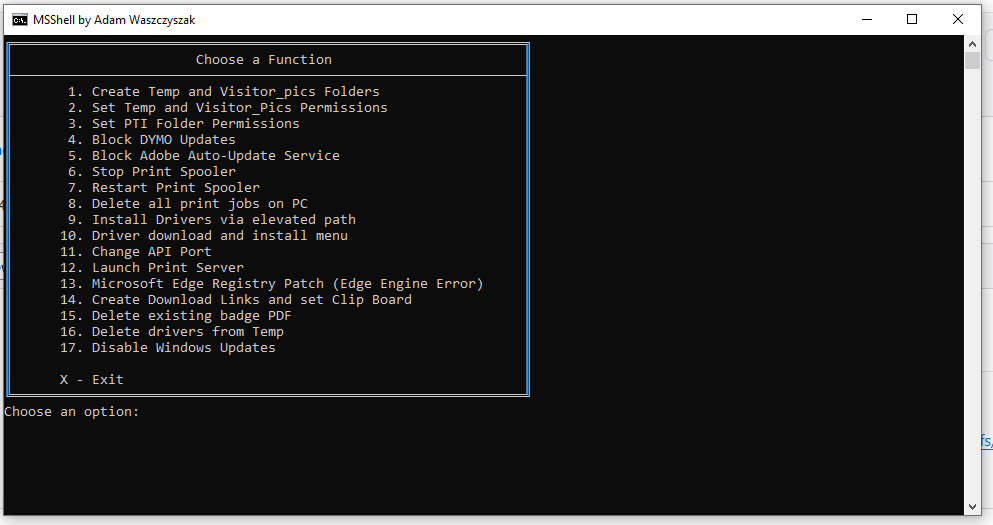
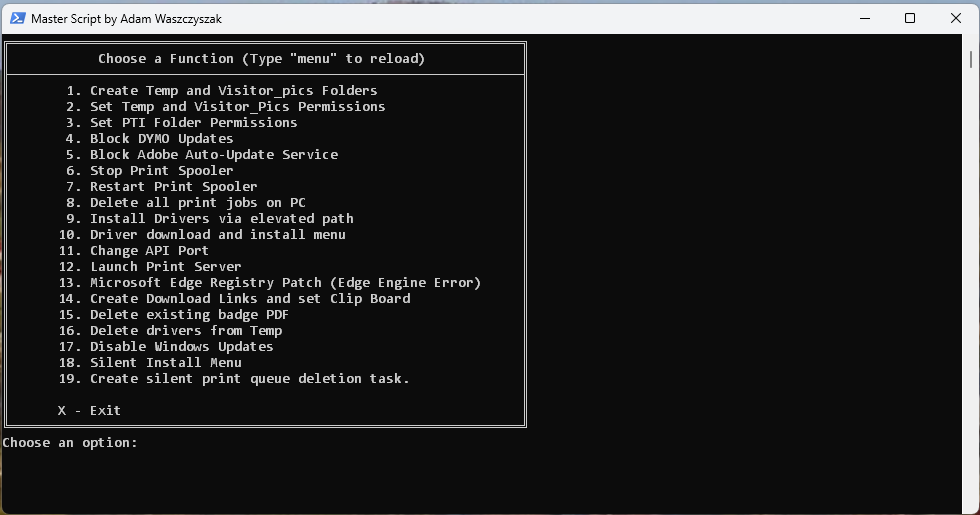
Add files via upload

Changed region(s): [[0.0, 0.0, 1.0, 1.0]]

diff --git a/projects.html b/projects.html
@@ -28,26 +28,55 @@
     <!-- Project Descriptions -->
     <main>
         <section class="project">
-            <img src="image.jpg" alt="Project 1!" class="center" width="250" height="auto">
-            <p>Windows Server 2022: This is a recycled HP Office computer, which I put x2 SSD's in, and x2 HDD's in. One of the HDD's is running as a mirrored backup drive.
-                This server used to be using the Linux-based OS, TrueNAS, however it kept having issues with the BOOT partition, so I switched over to Windows Server 2022.
-                It now runs a multitude for services for me. I use it to store backups of photos, phones and videos. I use JellyFIn to host and transcode video to my TV and devices. 
+            <img src="image.jpg" alt="Home Server Project" class="center" width="250" height="auto">
+            <p>
+                One of my most important projects has been setting up my home server / home lab. This setup has provided an excellent opportunity to practice and implement various crucial skills, particularly in system administration and service management.
+                The server is a repurposed HP Office computer, upgraded with additional storage and RAM. I configured one of the HDDs as a mirrored backup drive to ensure data redundancy. Originally, I ran TrueNAS (a Linux-based OS), but persistent issues with the BOOT partition led me to switch to Windows Server 2022, which has been much more stable and versatile for my needs.
+                This project has been a valuable hands-on experience, helping me to develop real-world IT skills in server management, automation, and service hosting.
+                The server now hosts several essential services:
+            </p>
+            <p>
+                <ul>
+                    <li><strong>Backups:</strong> of personal photos, videos, and phone data via SMB and a custom Python script for automatic iCloud backups.</li>
+                    <li><strong>Jellyfin:</strong> for media streaming and transcoding to my TV and devices.</li>
+                    <li><strong>FTP server:</strong> to access files from anywhere in the world.</li>
+                    <li><strong>TeamSpeak VOIP server:</strong> for communication with my eSports team.</li>
+                    <li><strong>Music management system:</strong> to stream audio to my household speaker system.</li>
+                </ul>
             </p>
         </section>
 
         <section class="project">
-            <img src="code.PNG" alt="Project 2!" class="center" width=70% height="auto">
-            <p>This website has been a project in and of itself, as I have had to learn HTML, CSS, and (hopefully soon) JavaScript! It is hosted on GitPages to protect my IP and not expose my
-                server to the public Internet. As it is a static site, all I needed to do was link my domain to my GitPages, and everything worked flawlessly. 
+            <img src="code.PNG" alt="Project 2!" class="center" width=50% height="auto">
+            <p>This website has been a big project, requiring me to learn and apply HTML, CSS, and, hopefully soon, JavaScript. It's hosted on GitHub Pages to avoid exposing my server to the public internet, and to have the code available for any interested parties to see. This project has emphasized the importance of writing clean, well-organized code, ensuring it's both understandable and maintainable for the future.
             </p>
         </section>
 
         <section class="project">
-            <img src="mergedScript.jpg" alt="Project Script Index" class="center" width=95% height="auto">
-            <p>This Powershell Script was created to automate many functions that I would need to perform at my IT Specialist Role. This was my first time working with Powershell to such a degree, and I had to self-teach myself a lot!
-                It has features such as downloading drivers and launching their installations. I was working on silent installations as well, but this project had to be scrapped due to pushback from leadership.
+            <img src="ScriptLanding.PNG" alt="Master Script Index" class="center" width=40% height="auto">
+            <p>
+                One of my projects was this Powershell Script that was developed to automate daily functions that I would need to perform at my IT Specialist Role. This was my first time working with Powershell to such a degree, and I had to self-teach myself a lot!
+                It has gone through many interations, and has taught me a lot about Powershell. I now have a nice library of Powershell scripts ranging from automatic kiosk creation scripts, to setting up office computers for new staff.
+                While I loved working with Powershell, it's limitations pushed me towards learning (or more aptly, re-learning) Python.
             </p>
         </section>
+
+        <section class="project">
+            <div class="image-container">
+                <img src="signaturescript.jpg" alt="Signature Scrips" class="center" width="20%" height="auto">
+                <img src="rosterinputscript.jpg" alt="Roster Input Script" class="center" width="25%" height="auto">
+                <img src="scraperscript.jpg" alt="Roster Input Script" class="center" width="40%" height="auto">
+            </div>
+            <p>
+                Python has been one of my favorite languages to use and learn so far. It is incredibly versatile, and the only limit for me has been thinking of problems to solve using it. 
+                Some of the things I have done with Python include automating employee roster inputs using CSV files and Selenium for controls. 
+                I also developed a script to generate HTML signatures for new employees, ensuring consistent email signatures throughout the company. 
+                Additionally, I created tools to scrape information from our proprietary ticketing system, which I have used to create other scripts that support the IT team. 
+                Adding a nice GUI was a challenge, but it was definitely worthwhile, as now others can use the scripts with ease
+            </p>
+        </section>
+        
+
     </main>
 
 </body>

diff --git a/projectStyle.css b/projectStyle.css
@@ -1,12 +1,10 @@
-/* General body styles */
 body {
-  background-color: black;
+  background-color: rgb(20, 20, 20);
   font-family: 'Arial', sans-serif;
   margin: 0;
   padding: 0;
 }
 
-/* Centered Heading */
 h1 {
   color: white;
   text-align: center;
@@ -14,7 +12,6 @@ h1 {
   font-size: 36px;
 }
 
-/* Common styles for paragraph text */
 p {
   color: white;
   font-size: 18px;
@@ -23,7 +20,6 @@ p {
   padding: 10px 20px;
 }
 
-/* Specific styling for .p1 class */
 .p1 {
   font-size: 24px;
   color: black;
@@ -31,14 +27,12 @@ p {
   margin-top: 10px;
 }
 
-/* Specific styling for .p2 class */
 .p2 {
   font-size: 24px;
   text-align: center;
   margin-top: 10px;
 }
 
-/* Specific styling for .p3 class */
 .p3 {
   font-size: 24px;
   display: block;
@@ -48,16 +42,15 @@ p {
   margin-top: 10px;
 }
 
-/* Top navigation bar */
 .topnav {
   background-color: #333;
   overflow: hidden;
   position: sticky;
   top: 0;
   z-index: 1000;
+  padding: 10px 0;
 }
 
-/* Style the links inside the navigation bar */
 .topnav a {
   float: left;
   color: #f2f2f2;
@@ -68,21 +61,17 @@ p {
   transition: background-color 0.3s, color 0.3s;
 }
 
-/* Hover effect on links */
 .topnav a:hover {
   background-color: #ddd;
   color: black;
 }
 
-/* Active link style */
 .topnav a.active {
   background-color: #008bff;
   color: white;
 }
 
-/* Responsive Design: Adjust the layout on smaller screens */
 @media (max-width: 768px) {
-  /* Stack the navigation links vertically */
   .topnav {
       display: flex;
       flex-direction: column;
@@ -95,7 +84,6 @@ p {
       padding: 12px;
   }
 
-  /* Adjust font size for smaller screens */
   h1 {
       font-size: 28px;
   }
@@ -109,17 +97,50 @@ p {
   }
 }
 
-img.merged-script {
-  width: 100%;  /* Image will take up 100% of the container's width */
-  height: auto; /* Keeps the aspect ratio */
-}
-.center {
+img.center {
   display: block;
   margin-left: auto;
   margin-right: auto;
+  max-width: 100%;
+  height: auto;
+  border-radius: 10px;
+  box-shadow: 0 4px 6px rgba(0, 0, 0, 0.2);
+  transition: transform 0.3s ease;
 }
 
-iframe{ 
-  display:block; 
-  margin:auto; 
+img.center:hover {
+  transform: scale(1.05);
+}
+
+iframe {
+  display: block;
+  margin: auto;
+}
+
+strong {
+  color: #f2f2f2;
+}
+
+li {
+  color: #f2f2f2;
+}
+
+ul {
+  color: #f2f2f2;
+}
+
+section {
+  padding: 20px 0;
+}
+
+.image-container {
+  display: flex;
+  justify-content: center; /* Aligns images in the center */
+  gap: 20px; /* Adds spacing between the images */
+}
+
+.center {
+  display: block;
+  height: auto;
+  margin: 0; /* Remove margins */
 }

diff --git a/index.html b/index.html
@@ -4,17 +4,13 @@
 <head>
     <meta charset="UTF-8">
     <meta name="viewport" content="width=device-width, initial-scale=1.0">
-    <title>Home</title>
-    
-    <!-- Link to external stylesheets -->
-    <link rel="stylesheet" href="style.css">
-
-    <!-- Icons for the page -->
+    <link rel="stylesheet" href="projectStyle.css">
     <link rel="apple-touch-icon" sizes="180x180" href="/apple-touch-icon.png">
     <link rel="icon" type="image/png" sizes="32x32" href="/favicon-32x32.png">
     <link rel="icon" type="image/png" sizes="16x16" href="/favicon-16x16.png">
     <link rel="manifest" href="/site.webmanifest">
     <link rel="icon" type="image/x-icon" href="favicon.ico">
+    <title>Home</title>
 </head>
 
 <body>
@@ -27,17 +23,7 @@
             <a href="https://www.linkedin.com/in/adam-waszczyszak-10b348198/" target="_blank" rel="noopener noreferrer">LinkedIn</a>
             <a href="https://github.com/ad4m-w" target="_blank" rel="noopener noreferrer">GitHub</a>
         </nav>
-        
     </header>
-
-       <script>
-            function myFunction() {
-            var element = document.body;
-            element.classList.toggle("light-mode");
-            }
-        </script>
-        
-        <button type="button" onclick="myFunction()">Light Mode</button>
 
     <!-- Main Content -->
     <main>

diff --git a/resume.html b/resume.html
@@ -4,21 +4,17 @@
 <head>
     <meta charset="UTF-8">
     <meta name="viewport" content="width=device-width, initial-scale=1.0">
-    <title>Adam's Resume</title>
-    
-    <!-- Link to external stylesheets -->
-    <link rel="stylesheet" href="style.css">
-    <link rel="stylesheet" href="center.css">
-    
-    <!-- Icons for the page -->
+    <link rel="stylesheet" href="projectStyle.css">
     <link rel="apple-touch-icon" sizes="180x180" href="/apple-touch-icon.png">
     <link rel="icon" type="image/png" sizes="32x32" href="/favicon-32x32.png">
     <link rel="icon" type="image/png" sizes="16x16" href="/favicon-16x16.png">
     <link rel="manifest" href="/site.webmanifest">
     <link rel="icon" type="image/x-icon" href="favicon.ico">
+    <title>Adam's Resume</title>
 </head>
 
 <body>
+    <!-- Header and Navigation -->
     <header>
         <nav class="topnav">
             <a href="index.html">Home</a>
